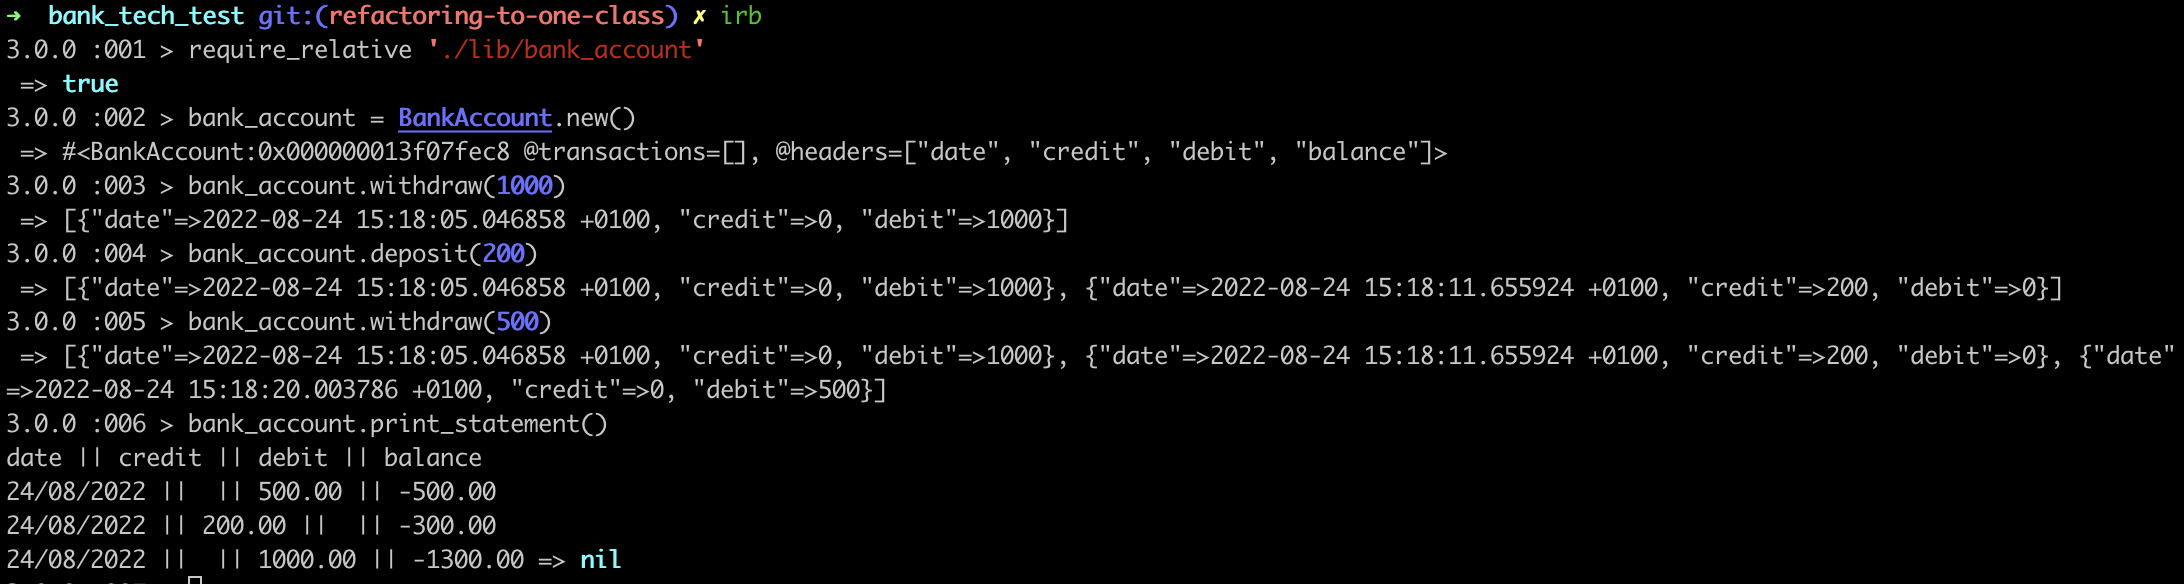
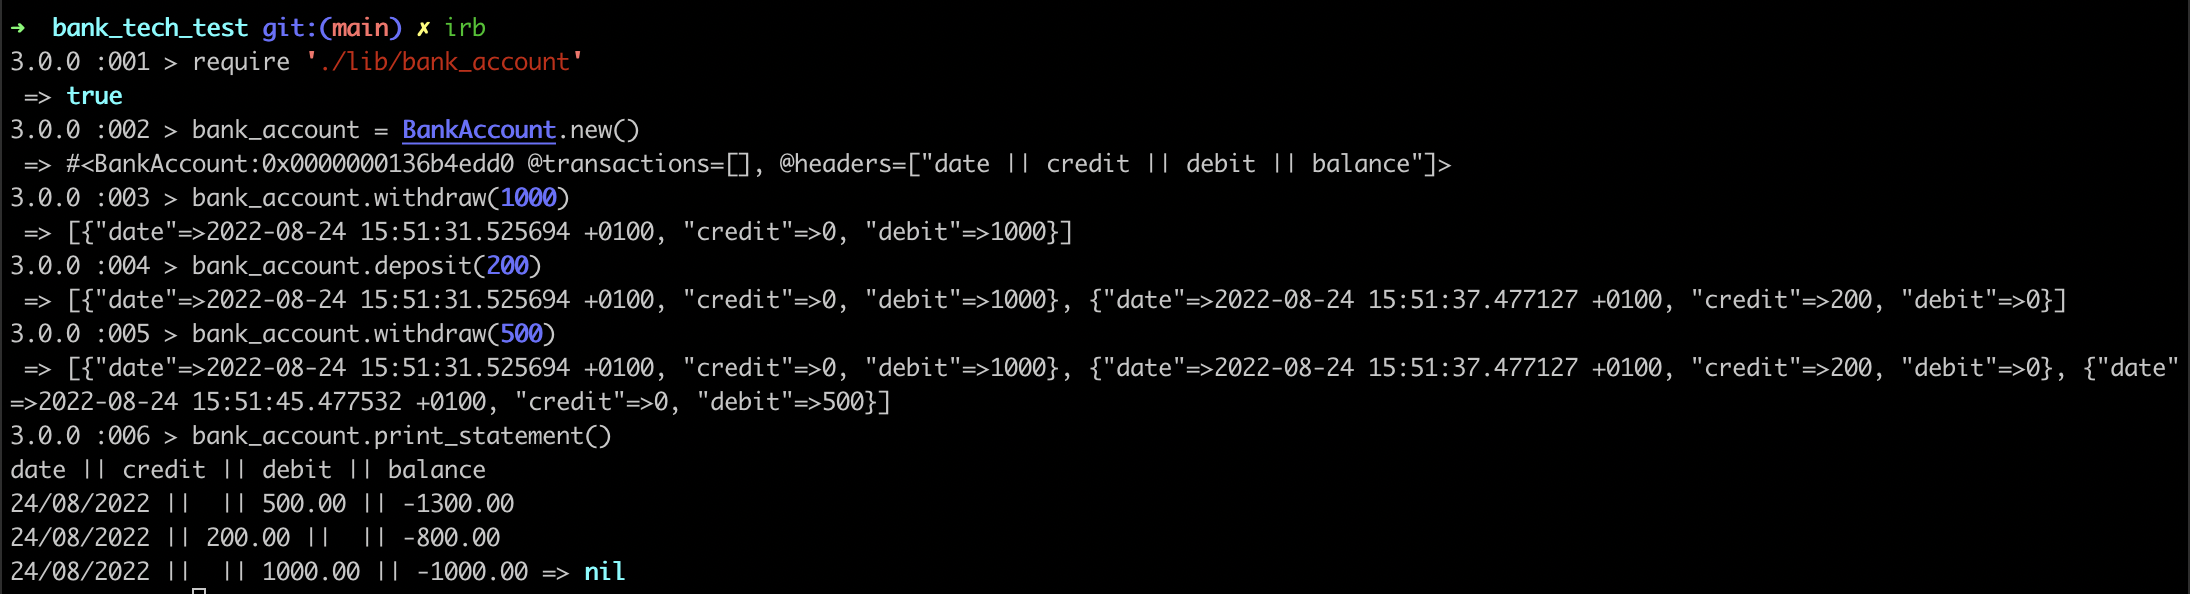
ordering of transactions was wrong this has been fixed

Changed region(s): [[0.0, 0.0, 1.0, 1.0]]

diff --git a/spec/bank_account_spec.rb b/spec/bank_account_spec.rb
@@ -1,5 +1,3 @@
-# frozen_string_literal: true
-
 require 'bank_account'
 require 'time'
 describe BankAccount do
@@ -30,7 +28,7 @@ describe BankAccount do
       expect(Time).to receive(:now).and_return(@time2).ordered
       @bank_account.deposit(1000)
       @bank_account.deposit(200)
-      expect { @bank_account.print_statement }.to output("date || credit || debit || balance\n22/08/2022 || 200.00 ||  || 200.00\n22/08/2022 || 1000.00 ||  || 1200.00").to_stdout
+      expect { @bank_account.print_statement }.to output("date || credit || debit || balance\n22/08/2022 || 200.00 ||  || 1200.00\n22/08/2022 || 1000.00 ||  || 1000.00").to_stdout
     end
 
     it 'returns bank statement containing three entries when three deposits are made' do
@@ -40,7 +38,7 @@ describe BankAccount do
       @bank_account.deposit(1000)
       @bank_account.deposit(200)
       @bank_account.deposit(100)
-      expect { @bank_account.print_statement }.to output("date || credit || debit || balance\n22/08/2022 || 100.00 ||  || 100.00\n22/08/2022 || 200.00 ||  || 300.00\n22/08/2022 || 1000.00 ||  || 1300.00").to_stdout
+      expect { @bank_account.print_statement }.to output("date || credit || debit || balance\n22/08/2022 || 100.00 ||  || 1300.00\n22/08/2022 || 200.00 ||  || 1200.00\n22/08/2022 || 1000.00 ||  || 1000.00").to_stdout
 
 
     end
@@ -50,7 +48,7 @@ describe BankAccount do
       expect(Time).to receive(:now).and_return(@time1).ordered
       @bank_account.deposit(200)
       @bank_account.deposit(1000)
-      expect { @bank_account.print_statement }.to output("date || credit || debit || balance\n22/08/2022 || 200.00 ||  || 200.00\n22/08/2022 || 1000.00 ||  || 1200.00").to_stdout
+      expect { @bank_account.print_statement }.to output("date || credit || debit || balance\n22/08/2022 || 200.00 ||  || 1200.00\n22/08/2022 || 1000.00 ||  || 1000.00").to_stdout
     end
   end
 
@@ -71,7 +69,7 @@ describe BankAccount do
       expect(Time).to receive(:now).and_return(@time2).ordered
       @bank_account.withdraw(1000)
       @bank_account.withdraw(200)
-      expect { @bank_account.print_statement }.to output("date || credit || debit || balance\n22/08/2022 ||  || 200.00 || -200.00\n22/08/2022 ||  || 1000.00 || -1200.00").to_stdout
+      expect { @bank_account.print_statement }.to output("date || credit || debit || balance\n22/08/2022 ||  || 200.00 || -1200.00\n22/08/2022 ||  || 1000.00 || -1000.00").to_stdout
     end
 
     it 'returns bank statement containing a three entries when three withdrawals are made' do
@@ -81,7 +79,7 @@ describe BankAccount do
       @bank_account.withdraw(1000)
       @bank_account.withdraw(200)
       @bank_account.withdraw(100)
-      expect { @bank_account.print_statement }.to output("date || credit || debit || balance\n22/08/2022 ||  || 100.00 || -100.00\n22/08/2022 ||  || 200.00 || -300.00\n22/08/2022 ||  || 1000.00 || -1300.00").to_stdout
+      expect { @bank_account.print_statement }.to output("date || credit || debit || balance\n22/08/2022 ||  || 100.00 || -1300.00\n22/08/2022 ||  || 200.00 || -1200.00\n22/08/2022 ||  || 1000.00 || -1000.00").to_stdout
     end
 
     it 'returns bank statement containing a two entries when two withdrawals are made in the wrong order' do
@@ -89,7 +87,7 @@ describe BankAccount do
       expect(Time).to receive(:now).and_return(@time1).ordered
       @bank_account.withdraw(200)
       @bank_account.withdraw(1000)
-      expect { @bank_account.print_statement }.to output("date || credit || debit || balance\n22/08/2022 ||  || 200.00 || -200.00\n22/08/2022 ||  || 1000.00 || -1200.00").to_stdout
+      expect { @bank_account.print_statement }.to output("date || credit || debit || balance\n22/08/2022 ||  || 200.00 || -1200.00\n22/08/2022 ||  || 1000.00 || -1000.00").to_stdout
     end
   end
 
@@ -107,7 +105,7 @@ describe BankAccount do
       @bank_account.withdraw(1000.0)
       @bank_account.deposit(200.0)
       @bank_account.withdraw(100.0)
-      expect { @bank_account.print_statement }.to output("date || credit || debit || balance\n22/08/2022 ||  || 100.00 || -100.00\n22/08/2022 || 200.00 ||  || 100.00\n22/08/2022 ||  || 1000.00 || -900.00").to_stdout
+      expect { @bank_account.print_statement }.to output("date || credit || debit || balance\n22/08/2022 ||  || 100.00 || -900.00\n22/08/2022 || 200.00 ||  || -800.00\n22/08/2022 ||  || 1000.00 || -1000.00").to_stdout
     end
 
     it 'returns bank statement containing a two entries when a withdrawal and deposit are made in the wrong order with microsecond difference' do
@@ -116,7 +114,7 @@ describe BankAccount do
       expect(Time).to receive(:now).and_return(@time1).ordered
       @bank_account.withdraw(1000)
       @bank_account.deposit(300)
-      expect { @bank_account.print_statement }.to output("date || credit || debit || balance\n22/08/2022 ||  || 1000.00 || -1000.00\n22/08/2022 || 300.00 ||  || -700.00").to_stdout
+      expect { @bank_account.print_statement }.to output("date || credit || debit || balance\n22/08/2022 ||  || 1000.00 || -700.00\n22/08/2022 || 300.00 ||  || 300.00").to_stdout
     end
 
     it 'returns bank statement containing a two entries when two withdrawals in different timezones are made' do
@@ -125,7 +123,7 @@ describe BankAccount do
       expect(Time).to receive(:now).and_return(time1_us_france).ordered
       @bank_account.withdraw(1000)
       @bank_account.deposit(300)
-      expect { @bank_account.print_statement }.to output("date || credit || debit || balance\n22/08/2022 ||  || 1000.00 || -1000.00\n22/08/2022 || 300.00 ||  || -700.00").to_stdout
+      expect { @bank_account.print_statement }.to output("date || credit || debit || balance\n22/08/2022 ||  || 1000.00 || -700.00\n22/08/2022 || 300.00 ||  || 300.00").to_stdout
     end
   end
 
@@ -142,7 +140,7 @@ describe BankAccount do
       @bank_account.deposit(1000)
       @bank_account.deposit(200)
       @bank_account.deposit('A')
-      expect { @bank_account.print_statement }.to output("date || credit || debit || balance\n22/08/2022 || 200.00 ||  || 200.00\n22/08/2022 || 1000.00 ||  || 1200.00").to_stdout
+      expect { @bank_account.print_statement }.to output("date || credit || debit || balance\n22/08/2022 || 200.00 ||  || 1200.00\n22/08/2022 || 1000.00 ||  || 1000.00").to_stdout
     end
 
     it 'returns a bank statement containing two entries when three withdrawals are made but one has a credit amount that is non-numeric' do
@@ -152,7 +150,7 @@ describe BankAccount do
       @bank_account.deposit(1000)
       @bank_account.deposit(200)
       @bank_account.deposit('100')
-      expect { @bank_account.print_statement }.to output("date || credit || debit || balance\n22/08/2022 || 200.00 ||  || 200.00\n22/08/2022 || 1000.00 ||  || 1200.00").to_stdout
+      expect { @bank_account.print_statement }.to output("date || credit || debit || balance\n22/08/2022 || 200.00 ||  || 1200.00\n22/08/2022 || 1000.00 ||  || 1000.00").to_stdout
     end
   end
   context 'When Bank Account is initialized, withdrawals with incorrect data types are rejected' do
@@ -168,7 +166,7 @@ describe BankAccount do
       @bank_account.withdraw(1000)
       @bank_account.withdraw(200)
       @bank_account.withdraw('A')
-      expect { @bank_account.print_statement }.to output("date || credit || debit || balance\n22/08/2022 ||  || 200.00 || -200.00\n22/08/2022 ||  || 1000.00 || -1200.00").to_stdout
+      expect { @bank_account.print_statement }.to output("date || credit || debit || balance\n22/08/2022 ||  || 200.00 || -1200.00\n22/08/2022 ||  || 1000.00 || -1000.00").to_stdout
     end
 
     it 'returns a bank statement containing two entries when three withdrawals are made but one has a credit amount that is non-numeric' do
@@ -178,7 +176,7 @@ describe BankAccount do
       @bank_account.withdraw(1000)
       @bank_account.withdraw(200)
       @bank_account.withdraw('100')
-      expect { @bank_account.print_statement }.to output("date || credit || debit || balance\n22/08/2022 ||  || 200.00 || -200.00\n22/08/2022 ||  || 1000.00 || -1200.00").to_stdout
+      expect { @bank_account.print_statement }.to output("date || credit || debit || balance\n22/08/2022 ||  || 200.00 || -1200.00\n22/08/2022 ||  || 1000.00 || -1000.00").to_stdout
     end
   end
 end

diff --git a/lib/bank_account.rb b/lib/bank_account.rb
@@ -1,5 +1,3 @@
-# frozen_string_literal: true
-
 require 'time'
 
 
@@ -7,19 +5,20 @@ require 'time'
 class BankAccount
   def initialize()
     @transactions = []
-    @headers = %w[date credit debit balance]
+    @headers = ["date || credit || debit || balance"]
   end
 
   def print_statement
-    bank_statement = @headers.join(' || ')
+    # prints statements with most recent transactions first
+    bank_statement = []
     sort_transactions
     balance = 0.0
     @transactions.each do |account_log|
       balance += account_log["credit"] - account_log["debit"]
-      bank_statement += generate_line(account_log,
-                                 balance)
+      bank_statement.append(generate_line(account_log,
+                                 balance))
     end
-    print bank_statement
+    print bank_statement.reverse.prepend(@headers).join("\n")
   end
 
   def deposit(amount)
@@ -42,7 +41,7 @@ class BankAccount
 
   def sort_transactions
     # sorts transactions by date
-    @transactions.sort_by! { |account_log| account_log["date"] }.reverse!
+    @transactions.sort_by! { |account_log| account_log["date"] }
   end
 
   def generate_line(account_log, balance)
@@ -50,6 +49,6 @@ class BankAccount
     date = account_log["date"].strftime('%d/%m/%Y')
     credit = account_log["credit"]>0.0 ? "#{'%.2f' % account_log["credit"]}" : ""
     debit = account_log["debit"]>0.0 ? "#{'%.2f' % account_log["debit"]}" : ""
-    "\n#{date} || #{credit} || #{debit} || #{'%.2f' % balance}"
+    ["#{date} || #{credit} || #{debit} || #{'%.2f' % balance}"]
   end
 end

diff --git a/README.md b/README.md
@@ -14,9 +14,9 @@ bank_account.withdraw(500)
 bank_account.generate_bank_statement()
 =begin
 => date || credit || debit || balance
-24/08/2022 ||  || 500.00 || -500.00
-24/08/2022 || 200.00 ||  || -300.00
-24/08/2022 ||  || 1000.00 || -1300.00
+24/08/2022 ||  || 500.00 || -1300.00
+24/08/2022 || 200.00 ||  || -800.00
+24/08/2022 ||  || 1000.00 || -1000.00
 =end
 
 ```
